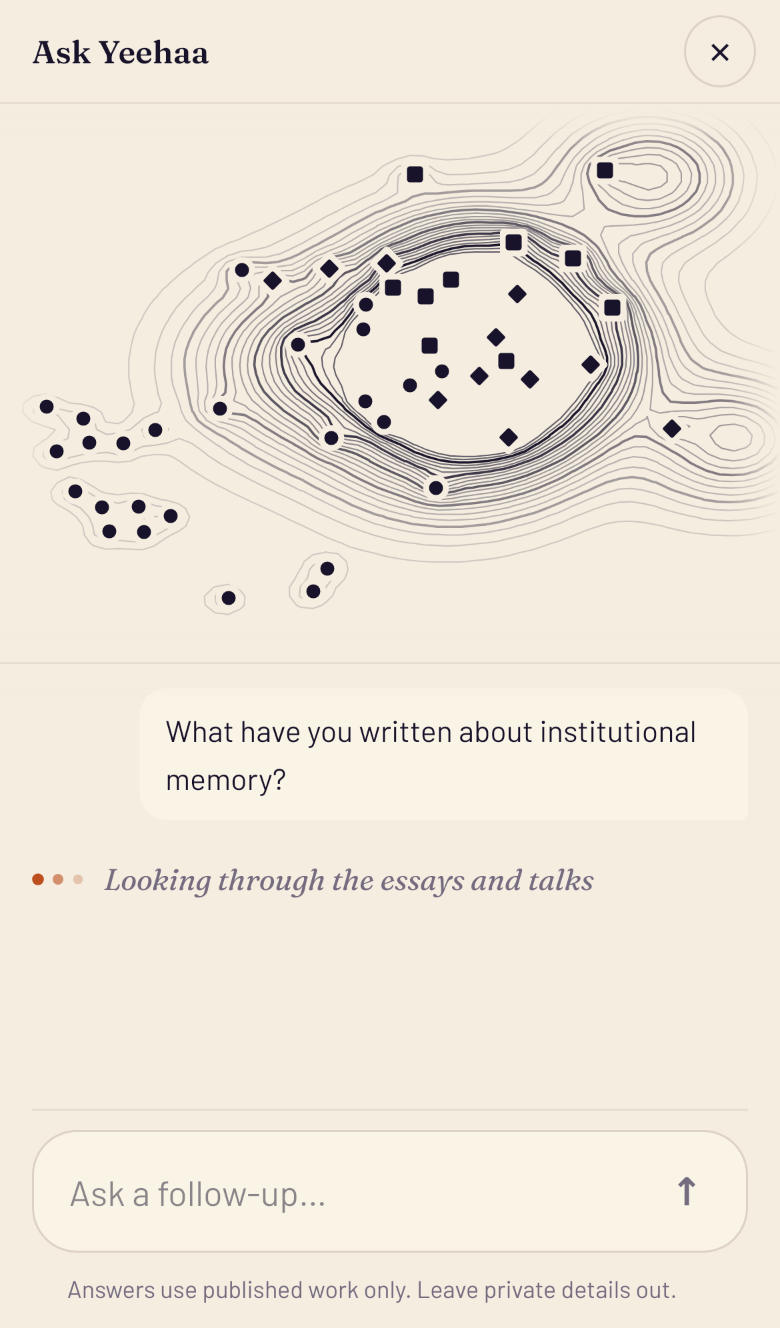
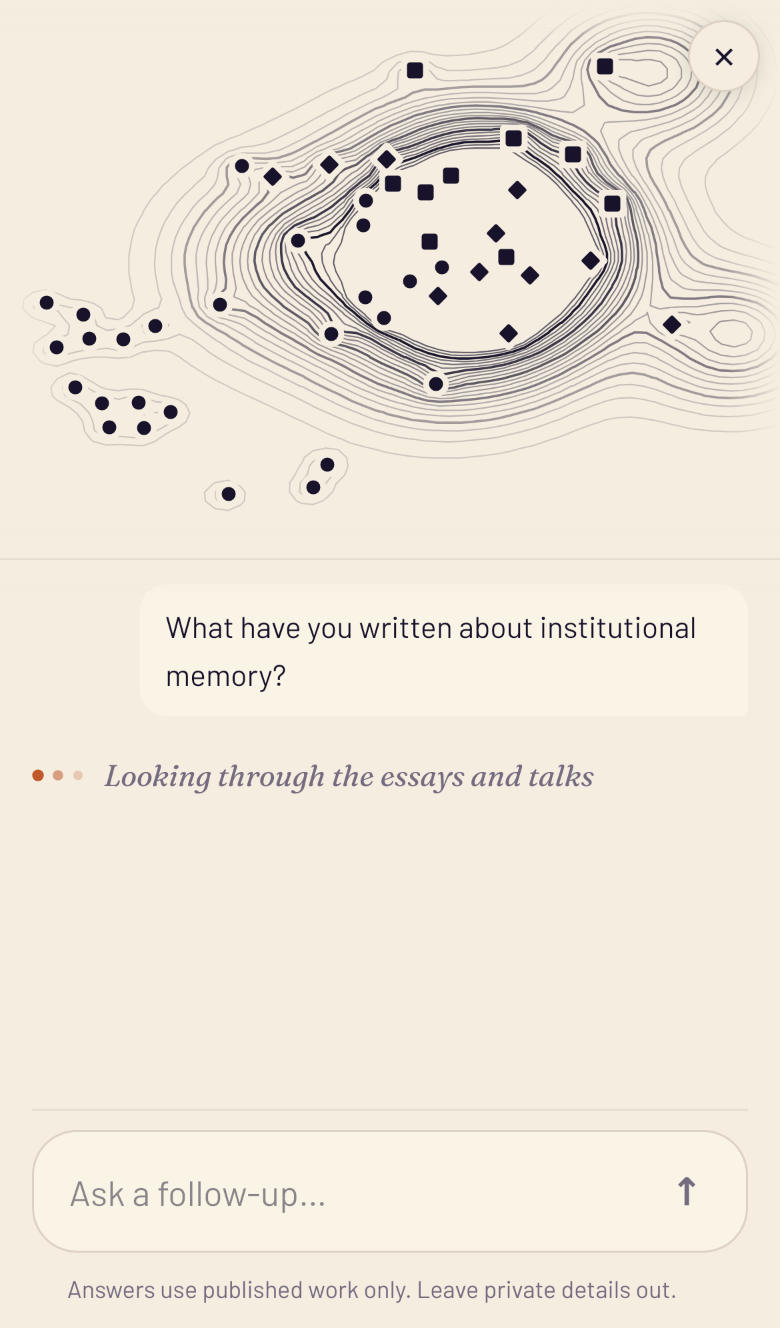
docs(design): slimmer phone bar and no sheet title row in the styling pass

diff --git a/docs/design/yeehaa-ask-styling-pass-mockup.html b/docs/design/yeehaa-ask-styling-pass-mockup.html
@@ -58,8 +58,13 @@ td.up{color:var(--accent)}
   <p class="lede">Every picture is the live preview in WebKit. "Now" is the page as it is today. "Proposed" is the same page with the proposal's stylesheet and a few lines of script injected (<code>yeehaa-ask-styling-pass/proposal.css</code> and <code>proposal.js</code>). The fonts and the map are the real ones. Answers differ between pictures because each is a fresh question.</p>
   <p class="lede">One thing the injected script can only stand in for: the draft essay is hidden from the sources list here, but the answer text still mentions it. The real fix keeps drafts out of guest answers altogether.</p>
 
-  <h2 class="part">Type sizes on a phone</h2>
-  <p class="lede">Nothing gets bigger except the sources, which move from 12px pills to 14px rows you can tap. Everything else stays the same size or gets smaller.</p>
+  <h2 class="part">Space and type on a phone</h2>
+  <p class="lede">The top bar and the sheet's title row give back 80px between them. Nothing gets bigger except the sources, which move from 12px pills to 14px rows you can tap. Everything else stays the same size or gets smaller.</p>
+  <table>
+    <tr><th>Space</th><th>Now</th><th>Proposed</th></tr>
+    <tr><td>Top bar</td><td class="num">83px</td><td class="num">53px</td></tr>
+    <tr><td>"Ask Yeehaa" title row in the sheet</td><td class="num">52px</td><td class="num">none; ✕ floats over the map's corner</td></tr>
+  </table>
   <table>
     <tr><th>Text</th><th>Now</th><th>Proposed</th></tr>
     <tr><td>Headline</td><td class="num">44.9px</td><td class="num">37px</td></tr>
@@ -134,6 +139,7 @@ td.up{color:var(--accent)}
     <figure><figcaption>Now</figcaption><div class="phone"><img src="yeehaa-ask-styling-pass/now-home.jpg" alt="Phone homepage today"></div></figure>
     <figure class="new"><figcaption>Proposed</figcaption><div class="phone"><img src="yeehaa-ask-styling-pass/new-home.jpg" alt="Phone homepage proposed"></div></figure>
     <div class="notes"><h3>Homepage</h3><ul>
+      <li><b>A slimmer top bar:</b> 53px instead of 83px, with a smaller menu button. The wordmark keeps its size.</li>
       <li><b>The name once</b>, as on desktop.</li>
       <li><b>A smaller headline and intro</b> (44.9 to 37px, 17.6 to 16px), so the ask box shows on the first screen.</li>
     </ul></div>
@@ -151,6 +157,7 @@ td.up{color:var(--accent)}
     <figure><figcaption>Now</figcaption><div class="phone"><img src="yeehaa-ask-styling-pass/now-open.jpg" alt="Phone sheet opening today"></div></figure>
     <figure class="new"><figcaption>Proposed</figcaption><div class="phone"><img src="yeehaa-ask-styling-pass/new-open.jpg" alt="Phone sheet opening proposed"></div></figure>
     <div class="notes"><h3>The sheet opens</h3><ul>
+      <li><b>No title row.</b> "Ask Yeehaa" takes 52px that the map and the answer can use; the sheet is already clearly the conversation. The ✕ floats over the map's top corner, and Back, Escape and swiping down close the sheet as before. Screen readers still hear the title.</li>
       <li><b>The map starts where it stays.</b> Today it sits at the bottom of the sheet and jumps to the top when the question is sent. It now opens at the top, where every later state has it.</li>
       <li><b>The starting questions are the same list as on the page</b>, instead of pills.</li>
       <li><b>One note, the same in every state:</b> "Answers use published work only. Leave private details out." Today it changes after the first question and names Yeehaa.</li>
@@ -170,6 +177,7 @@ td.up{color:var(--accent)}
     <figure><figcaption>Now</figcaption><div class="phone"><img src="yeehaa-ask-styling-pass/now-answered.jpg" alt="Phone answer today"></div></figure>
     <figure class="new"><figcaption>Proposed</figcaption><div class="phone"><img src="yeehaa-ask-styling-pass/new-answered.jpg" alt="Phone answer proposed"></div></figure>
     <div class="notes"><h3>The answer arrives</h3><ul>
+      <li><b>52px more for the answer</b>, from the title row that is gone.</li>
       <li><b>Answer text at 15px</b>, and the model's own headings at text size.</li>
       <li><b>"↓ Rest of the answer" under the composer</b>, where the note was; the round ↓ over the text goes.</li>
       <li><b>Lit pieces with one thin ring.</b></li>

diff --git a/docs/design/yeehaa-ask-styling-pass/proposal.css b/docs/design/yeehaa-ask-styling-pass/proposal.css
@@ -65,6 +65,21 @@ html body header .nav-link { font-family: var(--font-body); font-size: .95rem; l
 html body footer .font-mono.uppercase { font-family: var(--font-body); font-size: .8rem; letter-spacing: 0; text-transform: none; }
 
 @media (max-width: 47.99rem) {
+  /* A slimmer bar: 55px instead of 83px. */
+  html body header.sticky { padding-top: .6rem; padding-bottom: .6rem; }
+  html body #mobile-menu-button { padding: .35rem; }
+  html body #mobile-menu-button svg { width: 1.25rem; height: 1.25rem; }
+
+  /* No title row in the sheet: the map starts at its top edge and the close
+     button floats over the map's corner. The title stays for screen readers. */
+  html body [data-ask-styled] .brain-box-sheet-head {
+    position: absolute; z-index: 20; top: 10px; right: 10px; height: auto; margin: 0; padding: 0; border: 0; background: none;
+  }
+  html body [data-ask-styled] .brain-box-sheet-title {
+    position: absolute; width: 1px; height: 1px; overflow: hidden; clip-path: inset(50%); white-space: nowrap;
+  }
+  html body [data-ask-styled] .brain-box-close { background: var(--color-bg); box-shadow: 0 2px 10px rgb(0 0 0 / .1); }
+
   /* Smaller type on a phone. */
   html body .atlas h1 { font-size: clamp(2.1rem, 9.5vw, 2.6rem); }
   html body .atlas__prose { font-size: 1rem; }
